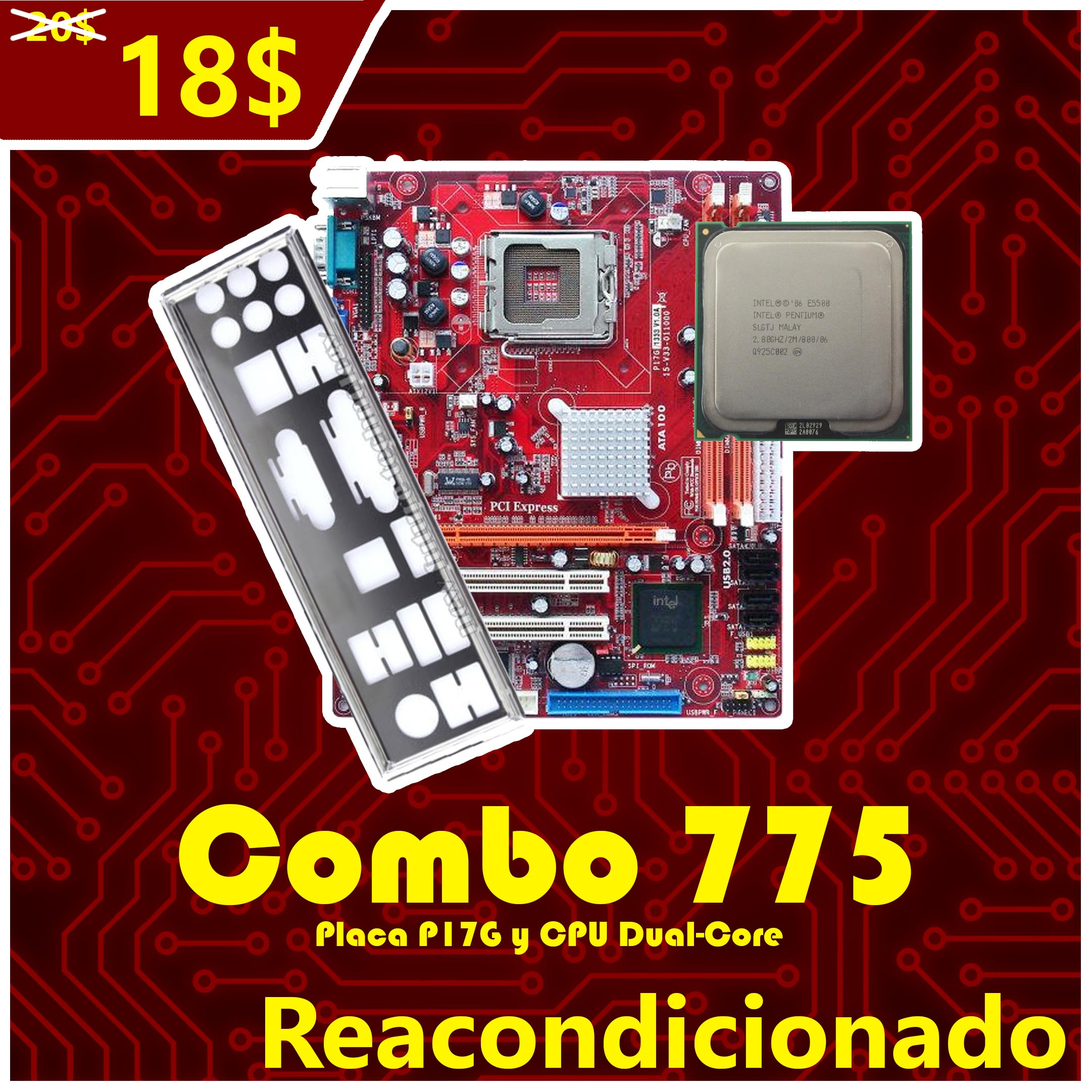
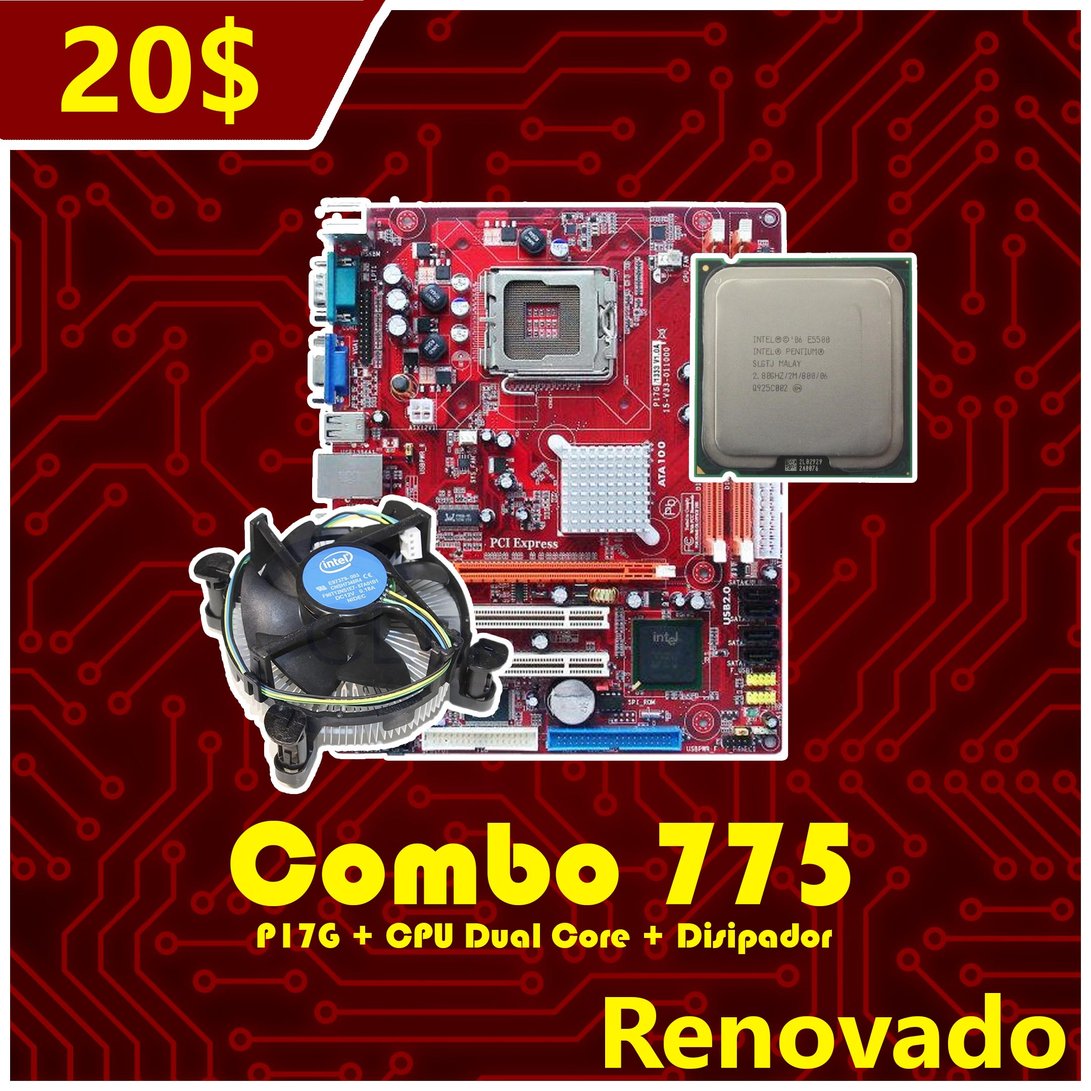
Add files via upload

diff --git a/tienda.html b/tienda.html
@@ -57,11 +57,12 @@
         <div class="col-md-3">
           <a class="portfolio-item" style="background-image: url(img/portfolio-2.1.jpg);" href="https://wa.me/p/4929994107099490/584245022292">
             <div class="details">
-              <h4>Combo Placa y CPU Básico (18$)</h4>
+              <h4>Combo 775 (20$)</h4>
               <span>Socket LGA775</span>
               <span>Placa PCChips P17</span>
               <span>Procesador Dual Core</span>
               <span>Soporta Memorias DDR2</span>
+              <span>Disipador Intel Stock</span>
             </div>
           </a>
         </div>
@@ -71,18 +72,6 @@
         <div class="col-md-12">
           <p class="section-description">Procesadores:</p>
           </div>
-        </div>
-
-        <div class="col-md-3">
-          <a class="portfolio-item" style="background-image: url(img/portfolio-2.2.jpg);" href="https://www.facebook.com/marketplace/item/5830039947012873/">
-            <div class="details">
-              <h4>Core 2 Quad Q6600 (12$)</h4>
-              <span>Socket LGA775</span>
-              <span>2.4GHz</span>
-              <span>Overcloackeable a 3GHz con MOD</span>
-              <span>Quad-core</span>
-            </div>
-          </a>
         </div>
 
         <div class="col-md-3">
@@ -144,25 +133,14 @@
             </div>
           </a>
         </div>
-
+<!--
         <div class="container wow fadeInUp">
         <div class="row">
         <div class="col-md-12">
           <p class="section-description">Tarjetas Gráficas:</p>
           </div>
         </div>
-
-        <div class="col-md-3">
-          <a class="portfolio-item" style="background-image: url(img/portfolio-7.jpg);" href="https://wa.me/p/4625303017570443/584245022292">
-            <div class="details">
-              <h4>HD 2600 PRO (50$)</h4>
-              <span>Marca ATI</span>
-              <span>512MB DDR2</span>
-              <span>GPU Básica</span>
-              <span>Reacondicionada</span>
-            </div>
-          </a>
-        </div>
+-->
 
         <div class="container wow fadeInUp">
         <div class="row">
@@ -222,25 +200,15 @@
             </div>
           </a>
         </div>
-
+<!--
         <div class="container wow fadeInUp">
         <div class="row">
         <div class="col-md-12">
           <p class="section-description">Cases o Gabinetes:</p>
           </div>
         </div>
+      -->
 
-        <div class="row">
-        <div class="col-md-3">
-          <a class="portfolio-item" style="background-image: url(img/portfolio-1.jpg);" href="https://www.facebook.com/marketplace/item/571497364324706/">
-            <div class="details">
-              <h4>Case DELUX (25$)</h4>
-              <span>Micro ATX</span>
-              <span>Incluye ensamble si trae las piezas</span>
-              <span>Incluye un ventilador</span>
-            </div>
-          </a>
-        </div>
 <!--
       <div class="container wow fadeInUp">
       <div class="row">
